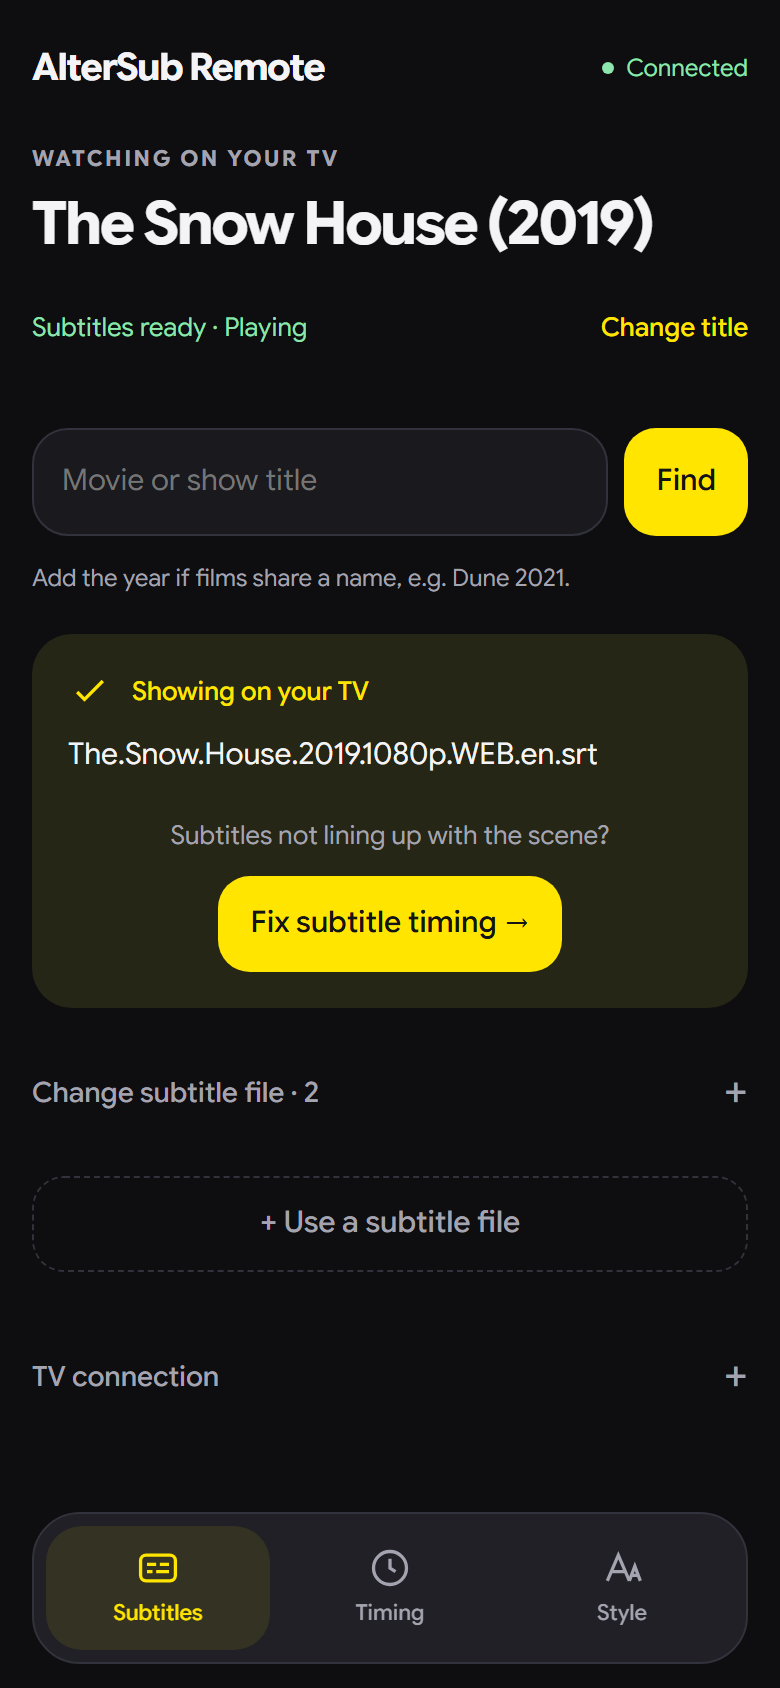
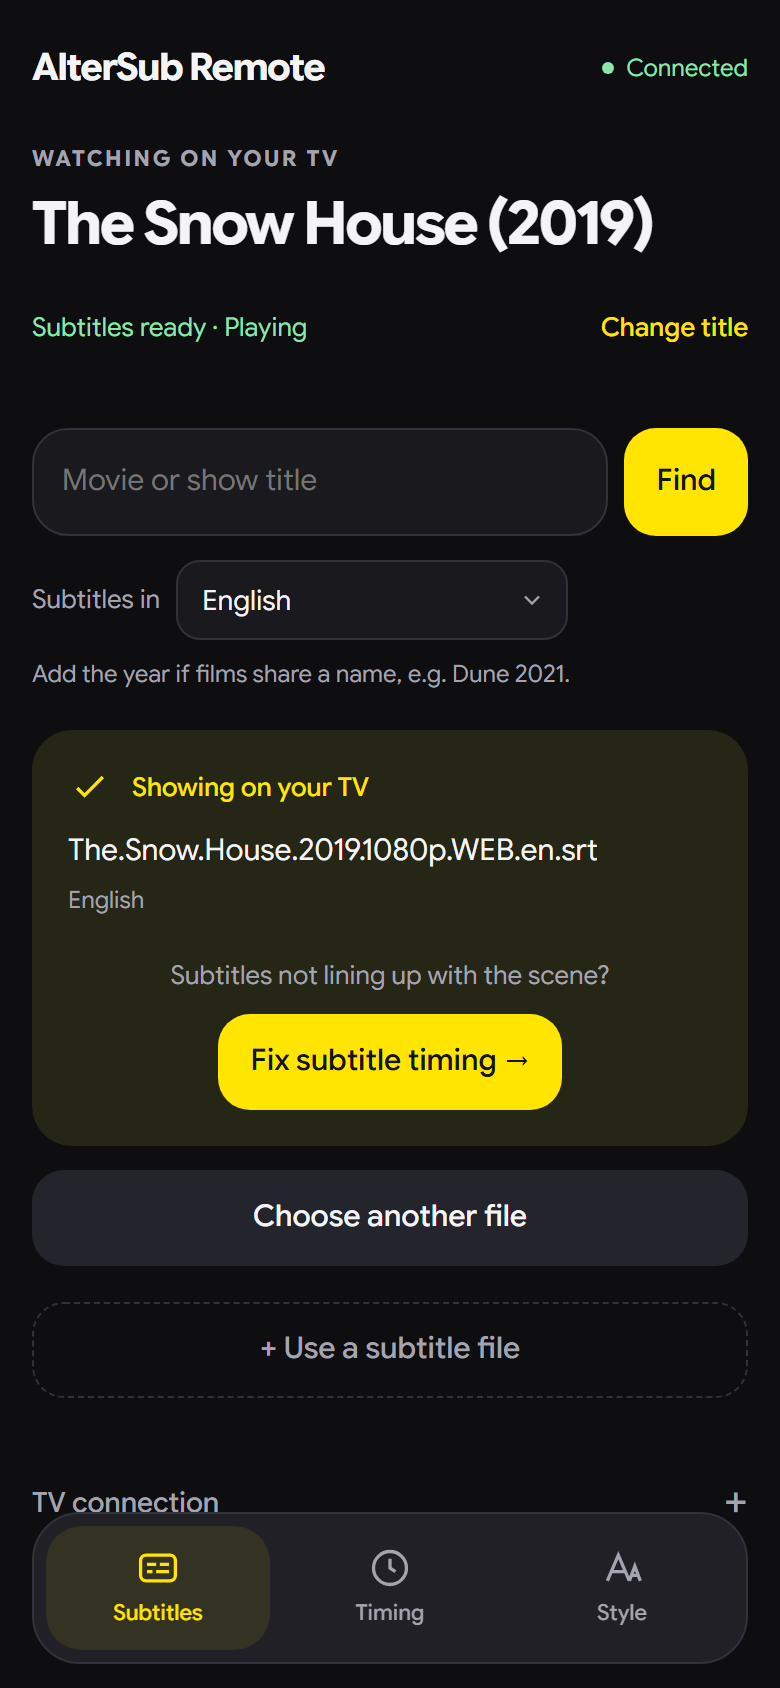
Show the new subtitle search on the website
The phone remote section now has four screens: the Subtitles tab with its
language picker, and the new results sheet (two same-name films grouped with
year, country and runtime, each file with its name and length), then Timing and
Style. Four phones across on wide screens, two by two on tablets, a swipe row on
phones. The feature and fine-print text mention the 10 languages and picking a
file. The results screenshot uses invented titles (sample data only).

diff --git a/site/index.html b/site/index.html
@@ -76,7 +76,8 @@
     .card p { margin-top: 8px; color: var(--muted); font-size: 16px; }
 
     /* Phone remote */
-    .phones { display: grid; grid-template-columns: repeat(3, minmax(0, 1fr)); gap: clamp(12px, 3vw, 24px); margin-top: 40px; }
+    .phones { display: grid; grid-template-columns: repeat(4, minmax(0, 1fr)); gap: clamp(12px, 2vw, 20px); margin-top: 40px; }
+    @media (max-width: 900px) { .phones { grid-template-columns: repeat(2, minmax(0, 1fr)); row-gap: 36px; } }
     .phone { padding: 8px; border-radius: 34px; background: #050506; box-shadow: 0 0 0 1px #2a2a31; }
     .phone img { border-radius: 27px; }
     figure figcaption { margin-top: 16px; }
@@ -174,12 +175,12 @@
                 <article class="card">
                     <div class="icon" aria-hidden="true"><svg viewBox="0 0 24 24" fill="none" stroke="currentColor" stroke-width="2" stroke-linecap="round"><circle cx="11" cy="11" r="6.5"/><path d="m16 16 4.5 4.5"/></svg></div>
                     <h3>Finds the right film</h3>
-                    <p>Where an app says what's playing, AlterSub picks it up, checks it against a film catalogue and loads subtitles. If two films share a name, it asks which one you mean.</p>
+                    <p>Where an app says what's playing, AlterSub picks it up, checks it against a film catalogue and loads subtitles. Search on your phone and every film by that name is listed with its year, country and runtime.</p>
                 </article>
                 <article class="card">
                     <div class="icon" aria-hidden="true"><svg viewBox="0 0 24 24" fill="none" stroke="currentColor" stroke-width="2" stroke-linecap="round"><rect x="6.5" y="2.5" width="11" height="19" rx="2.5"/><path d="M11 18h2"/></svg></div>
                     <h3>Controlled from your phone</h3>
-                    <p>Scan the code on the TV and the remote opens in your phone's browser, with no app to install. Search, switch subtitle files, upload your own, and fix the timing.</p>
+                    <p>Scan the code on the TV and the remote opens in your phone's browser, with no app to install. Search in any of 10 languages, pick a file, use your own, and fix the timing.</p>
                 </article>
                 <article class="card">
                     <div class="icon" aria-hidden="true"><svg viewBox="0 0 24 24" fill="none" stroke="currentColor" stroke-width="2" stroke-linecap="round"><path d="M4 12a8 8 0 1 0 2.3-5.6"/><path d="M4 4v4h4"/></svg></div>
@@ -203,8 +204,13 @@
             <div class="phones">
                 <figure>
                     <div class="phone"><img src="images/phone-subtitles.png" width="780" height="1688" loading="lazy"
-                        alt="The Subtitles tab: a search box, the subtitle file showing on the TV, and a button to fix the timing"></div>
-                    <figcaption><strong>Subtitles</strong><span>Search for a title, pick a file, or use one from your phone.</span></figcaption>
+                        alt="The Subtitles tab: a search box, the subtitle language set to English, and the subtitle file showing on the TV"></div>
+                    <figcaption><strong>Subtitles</strong><span>Search for a title, in any of 10 subtitle languages.</span></figcaption>
+                </figure>
+                <figure>
+                    <div class="phone"><img src="images/phone-search.png" width="780" height="1688" loading="lazy"
+                        alt="Search results: two films with the same name, each with its year, country and runtime, and their subtitle files with file names and lengths"></div>
+                    <figcaption><strong>Choose a file</strong><span>Grouped by film, with each file's name and length.</span></figcaption>
                 </figure>
                 <figure>
                     <div class="phone"><img src="images/phone-timing.png" width="780" height="1688" loading="lazy"
@@ -228,7 +234,7 @@
                 <li><h3>Install AlterSub</h3><p>Put the app on your Android TV (see below).</p></li>
                 <li><h3>Finish the setup screen</h3><p>Allow the three required steps. Each has its own button.</p></li>
                 <li><h3>Scan the code</h3><p>Point your phone's camera at the QR code on the TV to open the remote.</p></li>
-                <li><h3>Play something</h3><p>Subtitles load on their own when AlterSub recognises the title. Otherwise, search on your phone.</p></li>
+                <li><h3>Play something</h3><p>Subtitles load on their own when AlterSub recognises the title. Otherwise, search on your phone and pick a file.</p></li>
             </ol>
         </div>
     </section>
@@ -294,7 +300,7 @@ adb shell cmd notification allow_listener com.altersub/com.altersub.service.Medi
                 </article>
                 <article class="card">
                     <h3>Where subtitles come from</h3>
-                    <p>AlterSub searches community subtitle sources such as OpenSubtitles, and you can always use your own <code>.srt</code> or <code>.vtt</code> file from your phone.</p>
+                    <p>AlterSub searches community subtitle sources such as OpenSubtitles, in the language you choose (English unless you pick another), and you can always use your own <code>.srt</code> or <code>.vtt</code> file from your phone.</p>
                 </article>
                 <article class="card">
                     <h3>Privacy</h3>
